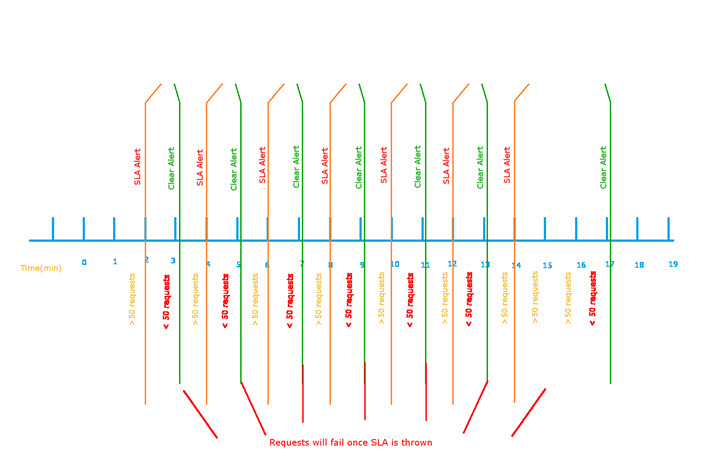
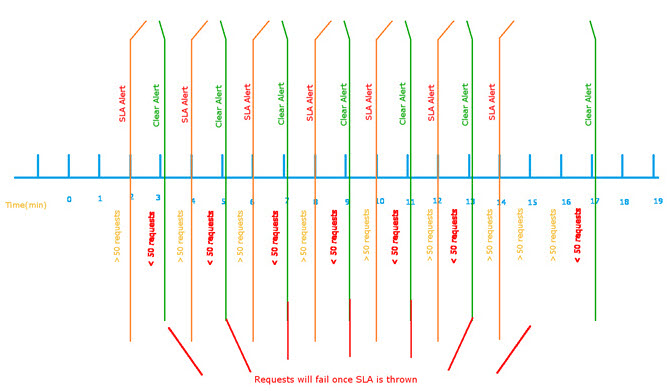
ATMO-32601 SLA policy doc fixes

diff --git a/ag/policies/policy_qos_service_level_enforcement.htm b/ag/policies/policy_qos_service_level_enforcement.htm
@@ -10,7 +10,8 @@ type: page
 nav-title: Service Level Enforcement
 ---
 <h1 id="top">Using the Service Level Enforcement Policy</h1>
-<p>Learn how to enable and configure the error message returned to the consumer when an SLA (service level agreement) is violated.</p>
+<p>Learn how to enable and configure the error message and HTTP response code returned to the consumer when a rule defined in the <a href="policy_qos_service_level.htm">Service Level Policy</a> is violated.</p>
+<p><strong>Note</strong>: This policy does not operate in real time. Service level is enforced at the user-defined intervals specified in the <a href="policy_qos_service_level.htm">Service Level Policy</a> configuration, and if the service level enforcement is triggered for a configured interval, it is in effect for the entire interval. The platform checks at each interval, and if service level is no longer exceeded, at the next interval, the service level enforcement is lifted.</p>
 <p>For information about using policies in the context of the developer portal, see <a href="../../cm/learnmore/bus_admin_organizations.htm#h_business_policies">Business Policies</a>.</p>
 <hr class="divide_hr" />
 
@@ -32,15 +33,25 @@ nav-title: Service Level Enforcement
 
 
 <h2 id="introduction">Introduction</h2>
-<p>The Service Level Enforcement Policy is a Quality of Service (QoS) policy that allows you to enable and configure the error message content, and the HTTP response code, that are returned to the consumer when an SLA is violated.</p>
-<p>The Service Level Enforcement Policy works in conjunction with a <a href="policy_qos_service_level.htm">Service Level Policy</a>. You define a Service Level Policy and specify each service level condition and alert code; then, you define a Service Level Enforcement Policy and specify the error message that will be displayed when the specified service level condition is violated.</p>
+<p>The Service Level Enforcement Policy is a Quality of Service (QoS) policy that allows you to define the error message, and the HTTP response code, that are returned to the consumer when an SLA is violated and the service is blocked as a result.</p>
+<p>The Service Level Enforcement Policy works in conjunction with a <a href="policy_qos_service_level.htm">Service Level Policy</a>. First, you define a Service Level Policy and specify one or more rules. Then, you define a Service Level Enforcement Policy and specify the error message and HTTP response code (default 403) that are returned if the policy is triggered by a service level violation.</p>
+<p>When the Service Level Policy and Service Level Enforcement Policy are attached to the same Organization/Service/Contract, and the Service Level Policy is violated, the Service Level Enforcement Policy blocks the service. The messages are rejected, and the predefined error message and HTTP code are returned.</p>
+<p>Note that this policy does not operate in real time. It checks service level at user-defined intervals as defined in the Service Level Policy configuration. If service is blocked, it remains blocked until the next user-defined interval. At that point, service is resumed.</p>
+<p>Here's how it works:</p>
+<ol>
+	<li>When the Service Level Enforcement policy is in place, the platform tracks the alerts generated by the Service Level Policy.</li>
+	<li>If a Service Level policy rule violation generates an alert, the rule is flagged as having been violated.</li>
+	<li>At that point, the Service Level Enforcement policy blocks the service, returning the error message and HTTP error code as defined in the policy configuration.</li>
+	<li>The Service Level Enforcement policy also keeps track of all the Service Level Policy rule alert codes that are applicable to each API call; that is, when the policy is attached directly to the API's service/operation, or indirectly via a contract.</li>
+	<li>A fault is returned for all API calls made while any applicable alert code is in violation status.</li>
+	<li>At the next time interval, as defined in the Service Level Policy, if a rule is no longer exceeded, that policy generated a &quot;Clearing&quot; alert. As a result, the Service Level Enforcement policy, monitoring the alerts, unblocks the service.</li>
+</ol>
 <p>This policy only applies to the following Service Level rules:</p>
 <ul>
 	<li>Usage Count</li>
 	<li>Total Request Message Size</li>
 	<li>Total Response Message Size</li>
 </ul>
-<p>When the Service Level Policy and Service Level Enforcement Policy are attached to the same Organization/Service/Contract, and the Service Level Policy is violated, the messages are rejected and the error message that you configured is returned.</p>
 <p><a href="#top">back to top</a></p>
 
 
@@ -72,7 +83,7 @@ nav-title: Service Level Enforcement
 	<li>Specify values for the following:
 		<ul>
 			<li><strong>Consumer Fault Message</strong>: The error message returned to the consumer when an SLA is violated.</li>
-			<li><strong>HTTP result code</strong>: The HTTP response code returned to the consumer when a message is rejected because the SLA was violated.</li>
+			<li><strong>HTTP result code</strong>: The HTTP response code returned to the consumer when a message is rejected because the SLA was violated. Default is 403 (&quot;Forbidden: the request was refused by the server&quot;). You can change the code if needed.</li>
 		</ul>
 		</li>
 	
@@ -92,6 +103,7 @@ nav-title: Service Level Enforcement
 
 <h2 id="policy_attach">Attaching a policy</h2>
 <p>To use the Service Level Enforcement policy, go to the <strong>Policies</strong> folder in the respective organization and attach the policy to a web service, binding, or binding operation.</p>
+<p><strong>Note</strong>: The Service Level Enforcement policy works together with the Service Level Policy.</p>
 <p><a href="#top">Back to top</a></p>
 
 
@@ -119,7 +131,7 @@ nav-title: Service Level Enforcement
 
 
 <h3 id="uc_policy_qos_service_level_enforcement_pm_01">Scenario 1: Block Request to Service</h3>
-<p>Block request to service for 15 minutes after 300 requests SLA has been violated. In this scenario, a fault message is returned to the app. The message that's returned is the one defined in the Service Level Enforcement Policy.</p>
+<p>Block request to service for 15 minutes (the configured interval in this example) after 300 requests SLA has been violated. In this scenario, a fault message is returned to the app. The message that's returned is the one defined in the Service Level Enforcement Policy.</p>
 <ol>
 	<li>Create a physical service in the Policy Manager Management Console using <strong>Create Physical Service</strong>.</li>
 	<li>Provide service details and finish the wizard.</li>
@@ -131,7 +143,7 @@ nav-title: Service Level Enforcement
 	<li>Attach the Service Level Enforcement policy and Service Level policy to the Vs1 service in the <strong>Service Details</strong> &gt; <strong>Policy Attachments</strong> &gt; <strong>QoS</strong> section.
 	<p><img src="images/service_level_enforcement_uc_pm_01.jpg" alt="" /></p></li>
 	<li>Send more than 300 requests to Vs1 from the application/client.</li>
-	<li>The first 300 requests will be successful. Subsequent requests will fail and generate the custom Fault message defined in the Service Level Enforcement Policy.</li>
+	<li>The first 300 requests will be successful, and subsequent requests will also be successful during the first 15-minute interval. At that point, the Service Level Policy will generate an alert, and the Service Level Enforcement policy will block the service. Subsequent requests will fail, for the duration of the next 15-minute interval, and the custom Fault message defined in the Service Level Enforcement Policy will be returned.</li>
 </ol>
 
 
@@ -141,15 +153,14 @@ nav-title: Service Level Enforcement
 	<li>Create a physical service in the Policy Manager Management Console using Create Physical Service.</li>
 	<li>Provide service details and finish the wizard.</li>
 	<li>Using <strong>Virtualize Service</strong>, virtualize and host the physical service on Network Director (ND1), and assign a name (for example, Vs1).</li>
-	<li>Navigate to <strong>Organization</strong> &gt; <strong>Policies</strong> &gt; <strong>QOS Policies</strong> and use <strong>Add Policy</strong> to create a Service Level Enforcement Policy.</li>
-	<li>Configure the Service Level Enforcement Policy as per the use case a with a custom Fault message.</li>
-	<li>Navigate to <strong>Organization</strong> &gt; <strong>Policies</strong> &gt; <strong>QOS Policies</strong> and use <strong>Add Policy</strong> to create a Service Level Policy.</li>
+	<li>Navigate to <strong>Organization</strong> &gt; <strong>Policies</strong> &gt; <strong>QoS Policies</strong> and use <strong>Add Policy</strong> to create a Service Level Enforcement Policy.</li>
+	<li>Configure the Service Level Enforcement Policy as per the use case with a custom Fault message.</li>
+	<li>Navigate to <strong>Organization</strong> &gt; <strong>Policies</strong> &gt; <strong>QoS Policies</strong> and use <strong>Add Policy</strong> to create a Service Level Policy.</li>
 	<li>Configure the Service Level Policy as per the use case with a custom alert for Usage Count &gt; 300 in a 15-minute interval.</li>
 	<li>Activate the policies in the Service Level Enforcement Policy and Service Level Policy in the Policy Workflow portlet and attach them to the Vs1 service in the <strong>Service Details</strong> &gt; <strong>Policy Attachments</strong> &gt; <strong>QoS</strong> section.</li>
 	<li>Send more than 300 requests to Vs1 from the application/client.</li>
-	<li>The first 300 requests will be successful. Subsequent requests will fail and generate the custom Fault message defined in the Service Level Enforcement Policy.</li>
-	<li>After the alert is generated, if the SLA is not violated again, a clear alert will be generated.</li>
-	<li>If the alert is configured with an email, it will be sent to the assigned users when triggered.</li>
+	<li>The first 300 requests will be successful, and subsequent requests will also be successful during the first 15-minute interval. At that point, the Service Level Policy will generate an alert, and the Service Level Enforcement policy will block the service. Subsequent requests will fail, for the duration of the next 15-minute interval, and the custom Fault message defined in the Service Level Enforcement Policy will be returned.</li>
+	<li>At the next 15-minute checkpoint, if the SLA is not violated again, the Service Level Policy generates a &quot;cleared&quot; alert.</li>
 </ol>
 
 
@@ -159,15 +170,15 @@ nav-title: Service Level Enforcement
 	<li>Create a physical service in the <strong>Policy Manager Management Console</strong> using <strong>Create Physical Service</strong>.</li>
 	<li>Provide service details and finish the wizard</li>
 	<li>Using <strong>Virtualize Service</strong>, virtualize and host the physical service on Network Director (ND1), and assign a name (for example, Vs1),</li>
-	<li>Navigate to <strong>Organization</strong> &gt; <strong>Policies</strong> &gt; <strong>QOS Policies</strong> and use <strong>Add Policy</strong> to create a Service Level Enforcement Policy.</li>
+	<li>Navigate to <strong>Organization</strong> &gt; <strong>Policies</strong> &gt; <strong>QoS Policies</strong> and use <strong>Add Policy</strong> to create a Service Level Enforcement Policy.</li>
 	<li>Configure the Service Level Enforcement Policy as per the use case a custom Fault message</li>
-	<li>Navigate to <strong>Organization</strong> &gt; <strong>Policies</strong> &gt; <strong>QOS Policies</strong> and use <strong>Add Policy</strong> to create a Service Level Policy.</li>
+	<li>Navigate to <strong>Organization</strong> &gt; <strong>Policies</strong> &gt; <strong>QoS Policies</strong> and use <strong>Add Policy</strong> to create a Service Level Policy.</li>
 	<li>Configure the Service Level Policy as per the use case with custom alert for Usage Count &gt; 300 in 15-minute intervals.</li>
 	<li>Activate the policies in the Service Level Enforcement Policy and Service Level Policy in the Policy Workflow portlet and attach them to the Vs1 service in the <strong>Service Details</strong> &gt; <strong>Policy Attachments</strong> &gt; <strong>QoS</strong> section.</li>
 	<li>Send more than 300 requests to Vs1 from the application/client.</li>
-	<li>The first 300 requests will be successful. Subsequent requests will fail and generate the custom Fault message defined in the Service Level Enforcement Policy.</li>
-	<li>After the alert is generated, if the SLA is not violated again, a clear alert will be generated.</li>
-	<li>After clear alert is generated the requests should be successful until it violates the SLA again.</li>
+	<li>The first 300 requests will be successful, and subsequent requests will also be successful during the first 15-minute interval. At that point, the Service Level Policy will generate an alert, and the Service Level Enforcement policy will block the service. Subsequent requests will fail, for the duration of the next 15-minute interval, and the custom Fault message defined in the Service Level Enforcement Policy will be returned.</li>
+	<li>At the next 15-minute checkpoint, if the SLA is not violated again, the Service Level Policy generates a &quot;cleared&quot; alert.</li>
+	<li>At that point, service resumes, and calls to the API should be successful.</li>
 </ol>
 <h3 id="uc_policy_qos_service_level_enforcement_pm_04">Timeline</h3>
 <p><img src="images/service_level_enforcement_uc_pm_02.jpg" alt="" /></p>

diff --git a/ag/policies/policy_qos_service_level.htm b/ag/policies/policy_qos_service_level.htm
@@ -11,6 +11,7 @@ nav-title: Service Level
 ---
 <h1 id="top">Using the Service Level Policy</h1>
 <p>Learn how to define conditions for measuring and reporting performance of a specific contract.</p>
+<p><strong>Note</strong>: This policy does not enforce service level, and does not operate in real time. Service level is checked at intervals as defined in the policy configuration, and alerts are generated if a defined rule is violated, but this policy does not block service calls.</p>
 <p>For information about using policies in the context of the developer portal, see <a href="../../cm/learnmore/bus_admin_organizations.htm#h_business_policies">Business Policies</a>.</p>
 <hr class="divide_hr" />
 
@@ -40,8 +41,28 @@ nav-title: Service Level
 
 
 <h2 id="introduction">Introduction</h2>
-<p>The Service Level Policy defines conditions for measuring and reporting performance of a specific contract. Each policy is composed of a <strong>Rule</strong> and an <strong>Access Interval</strong>. Rules represent the conditions you define to measure and report performance of a service contract. When a defined system condition matches a defined rule, an alert is raised. A <strong>Rule</strong> is composed of <strong>Rule Elements</strong> (Alert Code, Metric, Operator, Value, Units, and Interval) that you can configure to meet your service monitoring requirements.</p>
-<p><a href="#top">back to top</a></p>
+<p>The Service Level Policy defines conditions for measuring and reporting performance of a specific contract. </p>
+<p>Note that this policy measures and reports on service level. It provides metrics, but it does not block any service calls.</p>
+<p>In this policy, you can define:</p>
+<ul>
+	<li><strong>Rule (one or more)</strong>: Each rule represents a set of conditions you define to measure and report performance of a service contract. When a defined system condition matches a defined rule, an alert is raised. A <strong>Rule</strong> is composed of <strong>Rule Elements</strong> (Alert Code, Metric, Operator, Value, Units, and Interval) that you can configure to meet your service monitoring requirements.</li>
+	<li><strong>Access time</strong>: Defines the time periods during which the policy is enforced. You can define access time periods uniquely for each day of the week&#8212;all day, or a start/end range (HH:MM)&#8212;and the time zone.</li>
+</ul>
+	<p>Here's how it works:</p>
+	<ol>
+		<li>The platform collects statistics for all API calls. The raw data is recorded in the database.</li>
+		<li>Platform processes run at intervals to analyze the data to see if any Service Level Policy limits have been reached.
+		<p>The platform uses the time frame specified in the policy rule (see <a href="#fielddef_interval">Interval</a> below). For example:</p>
+		<ul>
+			<li>A rule limit of 5 faults per hour is checked each hour, on the hour.</li>
+			<li>A limit of 100 transactions per 15 minutes is checked on the quarter-hour (for example, 1:00. 1:15, 1:30, 1:45).</li>
+		</ul>
+		</li>
+	
+		<li><strong>Alert</strong>: If a rule has been violated for the specified interval, an alert is generated.</li>
+		<li><strong>&quot;Clearing&quot; Alert</strong>: At the next scheduled interval, the rule is checked again. If the rule is still exceeded, no action is taken. If the rule limit is no longer exceeded, an alert is generated to notify users that the violation is over.</li>
+	</ol>
+	<p><a href="#top">back to top</a></p>
 
 
 
@@ -81,7 +102,7 @@ nav-title: Service Level
 
 
 <h2 id="service_level_policy_config_rules">Configuring Service Level Policy Rules</h2>
-<p>Rules represent the conditions you define to measure and report performance for the specific service that is referencing or contains the configuration of a Service Level Policy. When a defined system condition matches a defined rule, an alert is raised in Policy Manager.</p>
+<p>Rules represent the conditions you define to measure and report performance for the specific service that is referencing or contains the configuration of a Service Level Policy. When a defined system condition matches a defined rule, an alert is generated.</p>
 <p><strong>Note</strong>: You can select from available SLA Custom Alert Codes in the drop-down list box on the Alert Code field. You can also enter a new SLA Custom Alert Code directly into the Service Level Policy Rule line item. The minimum SLA Alert Code start number is 700000. For more information on adding a new alert code in the <strong>Alerts</strong> &gt; <strong>Alert Codes</strong> section of the Management Console, refer to <strong>About Alert Codes</strong> in the Policy Manager Online Help (accessible via the Policy Manager Management Console).</p>
 <p>A rule is composed of the elements shown below.</p>
 <table class="doctable">
@@ -99,7 +120,7 @@ nav-title: Service Level
 	</tr>
 	<tr>
 		<td>Metric</td>
-		<td><p>A Metric is a measurable function (such as a Response Time) that is used in the rule calculation. Valid values:</p>
+		<td><p>A measurable function (such as a Response Time) that is used in the rule calculation. Valid values:</p>
 			<ul>
 				<li>Average Response Time</li>
 				<li>Number of Faults</li>
@@ -118,16 +139,16 @@ nav-title: Service Level
 	</tr>
 	<tr>
 		<td>Value</td>
-		<td><p>A Value is a numerical value that establishes the threshold of the metric. This value is manually entered into a text box.</p></td>
+		<td><p>A numerical value that establishes the threshold of the metric. Type the value in the box.</p></td>
 	</tr>
 	<tr>
 		<td>Units</td>
-		<td><p>A Unit is the unit measure by which the value is counted. Available values are: <strong>milliseconds</strong>, <strong>seconds</strong>, <strong>minutes</strong>, <strong>hours</strong>, <strong>days</strong>, as shown below.</p>
+		<td><p>The unit measure by which the value is counted. Available values are: <strong>milliseconds</strong>, <strong>seconds</strong>, <strong>minutes</strong>, <strong>hours</strong>, <strong>days</strong>, as shown below.</p>
 			<p><img src="images/qos_service_level_sla_units.jpg" alt="Service Level Policy Units" /></p></td>
 	</tr>
 	<tr>
-		<td>Interval</td>
-		<td><p>An Interval is the time interval over which the rule is measured. Available values are <strong>Any</strong>, <strong>15 minutes</strong>, <strong>1 hour</strong>, <strong>1 day</strong>, <strong>1 week</strong>, and <strong>1 month</strong>, as shown below.</p>
+		<td id="fielddef_interval">Interval</td>
+		<td><p>The time interval over which the rule is measured. Available values, as shown below: <strong>Any</strong>, <strong>15 minutes</strong>, <strong>1 hour</strong>, <strong>1 day</strong>, <strong>1 week</strong>, <strong>1 month</strong>.</p>
 			<p><img src="images/qos_service_level_sla_interval.jpg" alt="Service Level Policy Intervals" /></p></td>
 	</tr>
 </table>
@@ -240,23 +261,23 @@ nav-title: Service Level
 	<li>Create a physical service in the <strong>Policy Manager Management Console</strong> using <strong>Create Physical Service</strong>.</li>
 	<li>Provide service details and finish the wizard.</li>
 	<li>Using <strong>Virtualize Service</strong>, virtualize and host the physical service on Network Director (<strong>ND1</strong>), and assign a name (for example, <strong>Vs1</strong>).</li>
-	<li>Navigate to <strong>Organization</strong> &gt; <strong>Policies</strong> &gt; <strong>QOS Policies</strong> and use <strong>Add Policy</strong> to create a Service Level Policy.</li>
+	<li>Navigate to <strong>Organization</strong> &gt; <strong>Policies</strong> &gt; <strong>QoS Policies</strong> and use <strong>Add Policy</strong> to create a Service Level Policy.</li>
 	<li>Configure the Service Level Policy as per the use case with an alert code and a usage count of greater than 50 messages in 1 minute, as shown below.
 		<p><img src="images/service_level_uc_pm_01.jpg" alt="" /></p></li>
 	<li>Activate the policy in the Policy Workflow portlet and attach it to the Vs1 service in the <strong>Service Details</strong> &gt; <strong>Policy Attachments</strong> &gt; <strong>QoS</strong> section.
-<p>In this scenario, when there are more than 50 hits for a service in the 1-minute interval that was configured in the policy rules, an SLA alert is triggered at the beginning of the next configured time interval (in this example, at the beginning of the next minute), and an email is sent to the administrator.</p>
+<p>In this scenario, when there are more than 50 hits for a service in the 1-minute interval that was configured in the policy rules, an alert is triggered at the beginning of the next configured time interval (in this example, at the beginning of the next minute), and an email is sent to the administrator.</p>
 	<p><img src="images/service_level_uc_pm_02.jpg" alt="" /></p></li>
 </ol>
 
 
 <h3 id="uc_policy_qos_service_level_pm_02">SLA Generates Clear Alert / Email When Throughput Drops Below Limit</h3>
-<p>In this scenario, set up an SLA that generates a clear alert and sends an email to alert the administrator when the throughput has dropped below 50 requests in a minute.</p>
+<p>In this scenario, generate an alert because the range defined in the policy is exceeded, and then generate a clear alert that sends an email to alert the administrator when the throughput has dropped back into the defined range.</p>
 <ol>
 	<li>Add an alert code to the <strong>Policy Manager Management Console</strong> in the <strong>Alerts</strong> &gt; <strong>Alert Codes</strong> tab with email configuration.</li>
 	<li>Create a physical service in the <strong>Policy Manager Management Console</strong> using <strong>Create Physical Service</strong>.</li>
 	<li>Provide service details and finish the wizard.</li>
 	<li>Using <strong>Virtualize Service</strong>, virtualize and host the physical service on Network Director (<strong>ND1</strong>), and assign a name (for example, <strong>Vs1</strong>).</li>
-	<li>Navigate to <strong>Organization</strong> &gt; <strong>Policies</strong> &gt; <strong>QOS Policies</strong> and use <strong>Add Policy</strong> to create a Service Level Policy.</li>
+	<li>Navigate to <strong>Organization</strong> &gt; <strong>Policies</strong> &gt; <strong>QoS Policies</strong> and use <strong>Add Policy</strong> to create a Service Level Policy.</li>
 	<li>Configure the Service Level Policy to generate the alert code you created in Step 1 for a usage count of greater than 50 in 1 minute.</li>
 	<li>Activate the policy in the Policy Workflow portlet and attach it to the Vs1 service in the <strong>Service Details</strong> &gt; <strong>Policy Attachments</strong> &gt; <strong>QoS</strong> section. You will see:
 <ol>
@@ -271,6 +292,7 @@ nav-title: Service Level
 
 
 <h3 id="uc_policy_qos_service_level_pm_03">Timeline Diagram</h3>
+<p>The diagram below shows the points at which alerts are generated or cleared. Note that requests are still successful even after an alert is generated.</p>
 <p><img src="images/service_level_uc_pm_04.jpg" alt="" /></p>
 
 
@@ -281,7 +303,7 @@ nav-title: Service Level
 	<li>Create a physical service in the <strong>Policy Manager Management Console</strong> using <strong>Create Physical Service</strong>.</li>
 	<li>Provide service details and finish the wizard.</li>
 	<li>Using <strong>Virtualize Service</strong>, virtualize and host the physical service on Network Director (<strong>ND1</strong>), and assign a name (for example, <strong>Vs1</strong>).</li>
-	<li>Navigate to <strong>Organization</strong> &gt; <strong>Policies</strong> &gt; <strong>QOS Policies</strong> and use <strong>Add Policy</strong> to create a Service Level Policy.</li>
+	<li>Navigate to <strong>Organization</strong> &gt; <strong>Policies</strong> &gt; <strong>QoS Policies</strong> and use <strong>Add Policy</strong> to create a Service Level Policy.</li>
 	<li>Configure the Service Level Policy as per the use case with the above alert code, and greater than 300 usage count in 15 minute.</li>
 	<li>Activate the policy in the Policy Workflow portlet and attach it to the Vs1 service in the <strong>Service Details</strong> &gt; <strong>Policy Attachments</strong> &gt; <strong>QoS</strong> section.	</li>
 </ol>
@@ -384,8 +406,8 @@ nav-title: Service Level
 	<p><img src="images/service_level_uc_cm_29.jpg" alt="" /></p>
 	<p>The license is now configured with the QoS Policy attachment at the Terms Level.</p>
 	<p><img src="images/service_level_uc_cm_30.jpg" alt="" /></p></li>
-	<li>Next we have to use this scope in API &gt; Scope Mapping. Go to the API and click Scope Mapping.
-		<p><img src="images/service_level_uc_cm_31.jpg" alt="" /></p></li>
+	<li>Next, we have to use this scope in API &gt; Scope Mapping. Go to the API and click <strong>Scope Mapping</strong>.
+<p><img src="images/service_level_uc_cm_31.jpg" alt="" /></p></li>
 	<li>Map your scope at Operation level or at API level. Select Scope, then confirm and save changes.
 		<p><img src="images/service_level_uc_cm_32.jpg" alt="" /></p></li>
 	<li>Now request API Access for this API. While requesting API access, select the license that is attached to the QoS Policy at the Terms level.

diff --git a/ag/policies/policy_qos_concurrency_quota.htm b/ag/policies/policy_qos_concurrency_quota.htm
@@ -136,7 +136,7 @@ nav-title: Concurrency Quota
 	<li>Create a physical service in the Policy Manager Management Console using <strong>Create Physical Service</strong>.</li>
 	<li>Provide service details and click <strong>Finish</strong>.</li>
 	<li>Using <strong>Virtualize Service</strong>, virtualize and host the physical service on Network Director (<strong>ND1</strong>), and assign a name (for example, V<strong>s1</strong>).</li>
-	<li>Navigate to <strong>Organization</strong> &gt; <strong>Policies</strong> &gt; <strong>QOS Policies</strong> and use <strong>Add Policy</strong> to create a Concurrency Quota Policy.</li>
+	<li>Navigate to <strong>Organization</strong> &gt; <strong>Policies</strong> &gt; <strong>QoS Policies</strong> and use <strong>Add Policy</strong> to create a Concurrency Quota Policy.</li>
 	<li>Configure the Concurrency Quota Policy with 10 Concurrency Limit and a custom Fault message.
     <p><img src="images/concurrency_quota_uc_pm_01.jpg" alt="" /></p>
   </li>
@@ -158,7 +158,7 @@ nav-title: Concurrency Quota
 	<li>Create a physical service in the Policy Manager Management Console using <strong>Create Physical Service</strong>.</li>
 	<li>Provide service details and click <strong>Finish</strong>.</li>
 	<li>Using <strong>Virtualize Service</strong>, virtualize and host the physical service on Network Director (<strong>ND1</strong>), and assign a name (for example, V<strong>s1</strong>).</li>
-	<li>Navigate to <strong>Organization</strong> &gt; <strong>Policies</strong> &gt; <strong>QOS Policies</strong> and use <strong>Add Policy</strong> to create a Concurrency Quota Policy.</li>
+	<li>Navigate to <strong>Organization</strong> &gt; <strong>Policies</strong> &gt; <strong>QoS Policies</strong> and use <strong>Add Policy</strong> to create a Concurrency Quota Policy.</li>
 	<li>Configure the Concurrency Quota Policy with 10 Concurrency Limit and a custom Fault message. Set Remainder Alert interval to 10 seconds and Clear alert time interval to 100 seconds.
     <p><img src="images/concurrency_quota_uc_pm_05.jpg" alt="" /></p>
   </li>
@@ -188,7 +188,7 @@ nav-title: Concurrency Quota
 	<li>Create a physical service in the Policy Manager Management Console using <strong>Create Physical Service</strong>.</li>
 	<li>Provide service details and click <strong>Finish</strong>.</li>
 	<li>Using <strong>Virtualize Service</strong>, virtualize and host the physical service on Network Director (<strong>ND1</strong>), and assign a name (for example, V<strong>s1</strong>).</li>
-	<li>Navigate to <strong>Organization</strong> &gt; <strong>Policies</strong> &gt; <strong>QOS Policies</strong> and use <strong>Add Policy</strong> to create a Concurrency Quota Policy.</li>
+	<li>Navigate to <strong>Organization</strong> &gt; <strong>Policies</strong> &gt; <strong>QoS Policies</strong> and use <strong>Add Policy</strong> to create a Concurrency Quota Policy.</li>
 	<li>Configure the Concurrency Quota Policy with 15 Concurrency Limit and a custom Fault message.</li>
 	<li>Activate the policy, and attach the Concurrency Quota Policy to a contract which serves Vs1 and Vs2 services.
     <p><img src="images/concurrency_quota_uc_pm_07.jpg" alt="" /></p></li>
@@ -207,7 +207,7 @@ nav-title: Concurrency Quota
 	<li>Create a physical service in the Policy Manager Management Console using <strong>Create Physical Service</strong>.</li>
 	<li>Provide service details and click <strong>Finish</strong>.</li>
 	<li>Using <strong>Virtualize Service</strong>, virtualize and host the physical service on Network Director (<strong>ND1</strong>), and assign a name (for example, V<strong>s1</strong>).</li>
-	<li>Navigate to <strong>Organization</strong> &gt; <strong>Policies</strong> &gt; <strong>QOS Policies</strong> and use <strong>Add Policy</strong> to create a Concurrency Quota Policy.</li>
+	<li>Navigate to <strong>Organization</strong> &gt; <strong>Policies</strong> &gt; <strong>QoS Policies</strong> and use <strong>Add Policy</strong> to create a Concurrency Quota Policy.</li>
 	<li>Configure the Concurrency Quota Policy with 10 Concurrency Limit and a custom Fault message.</li>
 	<li>Activate the policy, and attach it to the Vs1 service in the <strong>Service Details</strong> &gt; <strong>Policy Attachments</strong> &gt; <strong>QoS</strong> section.</li>
 	<li>Send 20 concurrent requests from the application/client to the Vs1 service.

diff --git a/ag/policies/policy_qos_throughput_quota.htm b/ag/policies/policy_qos_throughput_quota.htm
@@ -130,7 +130,7 @@ nav-title: Throughput Quota
 	<li>Create a physical service in the <strong>Policy Manager Management Console</strong> using <strong>Create Physical Service</strong>.</li>
 	<li>Provide service details and finish the wizard.</li>
 	<li>Using <strong>Virtualize Service</strong>, virtualize and host the physical service on Network Director (<strong>ND1</strong>), and assign a name (for example, <strong>Vs1</strong>).</li>
-	<li>Navigate to <strong>Organization</strong> &gt; <strong>Policies</strong> &gt; <strong>QOS Policies</strong> and use <strong>Add Policy</strong> to create a Throughput Quota Policy.</li>
+	<li>Navigate to <strong>Organization</strong> &gt; <strong>Policies</strong> &gt; <strong>QoS Policies</strong> and use <strong>Add Policy</strong> to create a Throughput Quota Policy.</li>
 	<li>Configure the Throughput Quota Policy as per the use case with 10 Throughput Limit per minute and a custom Fault message.
 	<p><img src="images/throughput_quota_uc_pm_01.jpg" alt="" /></p></li>
 	<li>Activate the policy in the Policy Workflow portlet and attach it to the Vs1 service in the <strong>Service Details</strong> &gt; <strong>Policy Attachments</strong> &gt; <strong>QoS</strong> section.</li>
@@ -154,7 +154,7 @@ nav-title: Throughput Quota
 	<li>Create a physical service in the <strong>Policy Manager Management Console</strong> using <strong>Create Physical Service</strong>.</li>
 	<li>Provide service details and finish the wizard.</li>
 	<li>Using <strong>Virtualize Service</strong>, virtualize and host the physical service on Network Director (<strong>ND1</strong>), and assign a name (for example, <strong>Vs1</strong>).</li>
-	<li>Navigate to <strong>Organization</strong> &gt; <strong>Policies</strong> &gt; <strong>QOS Policies</strong> and use <strong>Add Policy</strong> to create a Throughput Quota Policy.</li>
+	<li>Navigate to <strong>Organization</strong> &gt; <strong>Policies</strong> &gt; <strong>QoS Policies</strong> and use <strong>Add Policy</strong> to create a Throughput Quota Policy.</li>
 	<li>Configure the Throughput Quota Policy as per the use case with 5 Throughput Limit per second and a custom Fault message and reminder time interval.
 	<p><img src="images/throughput_quota_uc_pm_05.jpg" alt="" /></p></li>
 	<li>Activate the policy in the Policy Workflow portlet and attach it to the Vs1 service in the <strong>Service Details</strong> &gt; <strong>Policy Attachments</strong> &gt; <strong>QoS</strong> section.</li>
@@ -179,7 +179,7 @@ nav-title: Throughput Quota
 	<li>Create a physical service in the <strong>Policy Manager Management Console</strong> using <strong>Create Physical Service</strong>.</li>
 	<li>Provide service details and finish the wizard.</li>
 	<li>Using <strong>Virtualize Service</strong>, virtualize and host the physical service on Network Director (<strong>ND1</strong>), and assign a name (for example, <strong>Vs1</strong>).</li>
-	<li>Navigate to <strong>Organization</strong> &gt; <strong>Policies</strong> &gt; <strong>QOS Policies</strong> and use <strong>Add Policy</strong> to create a Throughput Quota Policy.</li>
+	<li>Navigate to <strong>Organization</strong> &gt; <strong>Policies</strong> &gt; <strong>QoS Policies</strong> and use <strong>Add Policy</strong> to create a Throughput Quota Policy.</li>
 	<li>Configure the Throughput Quota Policy as per the use case with 15 Throughput Limit per second and a custom Fault message.</li>
 	<li>Activate the policy in the Policy Workflow portlet and attach it to the <strong>Vs1</strong> service in the <strong>Service Details</strong> &gt; <strong>Policy Attachments</strong> &gt; <strong>QoS</strong> section.</li>
 	<li>Send 20 requests from the application/client to the Vs1 service in a second.

diff --git a/ag/policies/policy_qos_bandwidth_quota.htm b/ag/policies/policy_qos_bandwidth_quota.htm
@@ -107,7 +107,7 @@ nav-title: Bandwidth Quota
 	<li>Create a physical service in the Policy Manager Management Console using <strong>Create Physical Service</strong>.</li>
 	<li>Provide service details and click <strong>Finish</strong>.</li>
 	<li>Using <strong>Virtualize Service</strong>, virtualize and host the physical service on Network Director (<strong>ND1</strong>), and assign a name (for example, V<strong>s1</strong>).</li>
-	<li>Navigate to <strong>Organization</strong> &gt; <strong>Policies</strong> &gt; <strong>QOS Policies</strong> and use <strong>Add Policy</strong> to create a Bandwidth Quota Policy.</li>
+	<li>Navigate to <strong>Organization</strong> &gt; <strong>Policies</strong> &gt; <strong>QoS Policies</strong> and use <strong>Add Policy</strong> to create a Bandwidth Quota Policy.</li>
 	<li>Configure the policy with 10kbps bandwidth limit assigned to the request.
     <p><img src="images/bandwidth_quota_uc_pm_01.jpg" alt="" /></p></li>
 	<li>Activate the policy in the Policy Workflow portlet and attach it to the <strong>Vs1</strong> service in the <strong>Service Details</strong> &gt; <strong>Policy Attachments</strong> &gt; <strong>QoS</strong> section.</li>
@@ -124,7 +124,7 @@ nav-title: Bandwidth Quota
 	<li>Create a physical service in the Policy Manager Management Console using <strong>Create Physical Service</strong>.</li>
 	<li>Provide service details and click <strong>Finish</strong>.</li>
 	<li>Using <strong>Virtualize Service</strong>, virtualize and host the physical service on Network Director (<strong>ND1</strong>), and assign a name (for example, <strong>Vs1</strong>).</li>
-	<li>Navigate to <strong>Organization</strong> &gt; <strong>Policies</strong> &gt; <strong>QOS Policies</strong> and use <strong>Add Policy</strong> to create a Bandwidth Quota Policy.</li>
+	<li>Navigate to <strong>Organization</strong> &gt; <strong>Policies</strong> &gt; <strong>QoS Policies</strong> and use <strong>Add Policy</strong> to create a Bandwidth Quota Policy.</li>
 	<li>Configure the policy with 1kbps bandwidth limit assigned to the response.
     <p><img src="images/bandwidth_quota_uc_pm_02.jpg" alt="" /></p></li>
 	<li>Activate the policy in the Policy Workflow portlet and attach it to the <strong>Vs1</strong> service in the <strong>Service Details</strong> &gt; <strong>Policy Attachments</strong> &gt; <strong>QoS</strong> section.</li>

diff --git a/ag/policies/policy_qos_timeout.htm b/ag/policies/policy_qos_timeout.htm
@@ -104,7 +104,7 @@ nav-title: Timeout
 	<li>Create two physical services in the <strong>Policy Manager Management Console</strong> using <strong>Create Physical Service</strong>.</li>
 	<li>Provide service details and finish the wizard.</li>
 	<li>Using <strong>Virtualize Service</strong>, virtualize each physical service and host on Network Director (<strong>ND1</strong>), and assign a name (for example, <strong>Vs1</strong>, <strong>Vs2</strong>).</li>
-	<li>Navigate to <strong>Organization</strong> &gt; <strong>Policies</strong> &gt; <strong>QOS Policies</strong> and use <strong>Add Policy</strong> to create a Timeout Policy.</li>
+	<li>Navigate to <strong>Organization</strong> &gt; <strong>Policies</strong> &gt; <strong>QoS Policies</strong> and use <strong>Add Policy</strong> to create a Timeout Policy.</li>
 	<li>Configure the Timeout Policy as per the use case with 10 millisecond timeout and a custom Fault message.
   <p><img src="images/timeout_uc_pm_01.jpg" alt="" /></p></li>
 	<li>Activate the policy in the Policy Workflow portlet and attach the Timeout Policy to the Vs1 service in the <strong>Service Details</strong> &gt; <strong>Policy Attachments</strong> &gt;<strong> QoS Policies</strong> section.</li>
